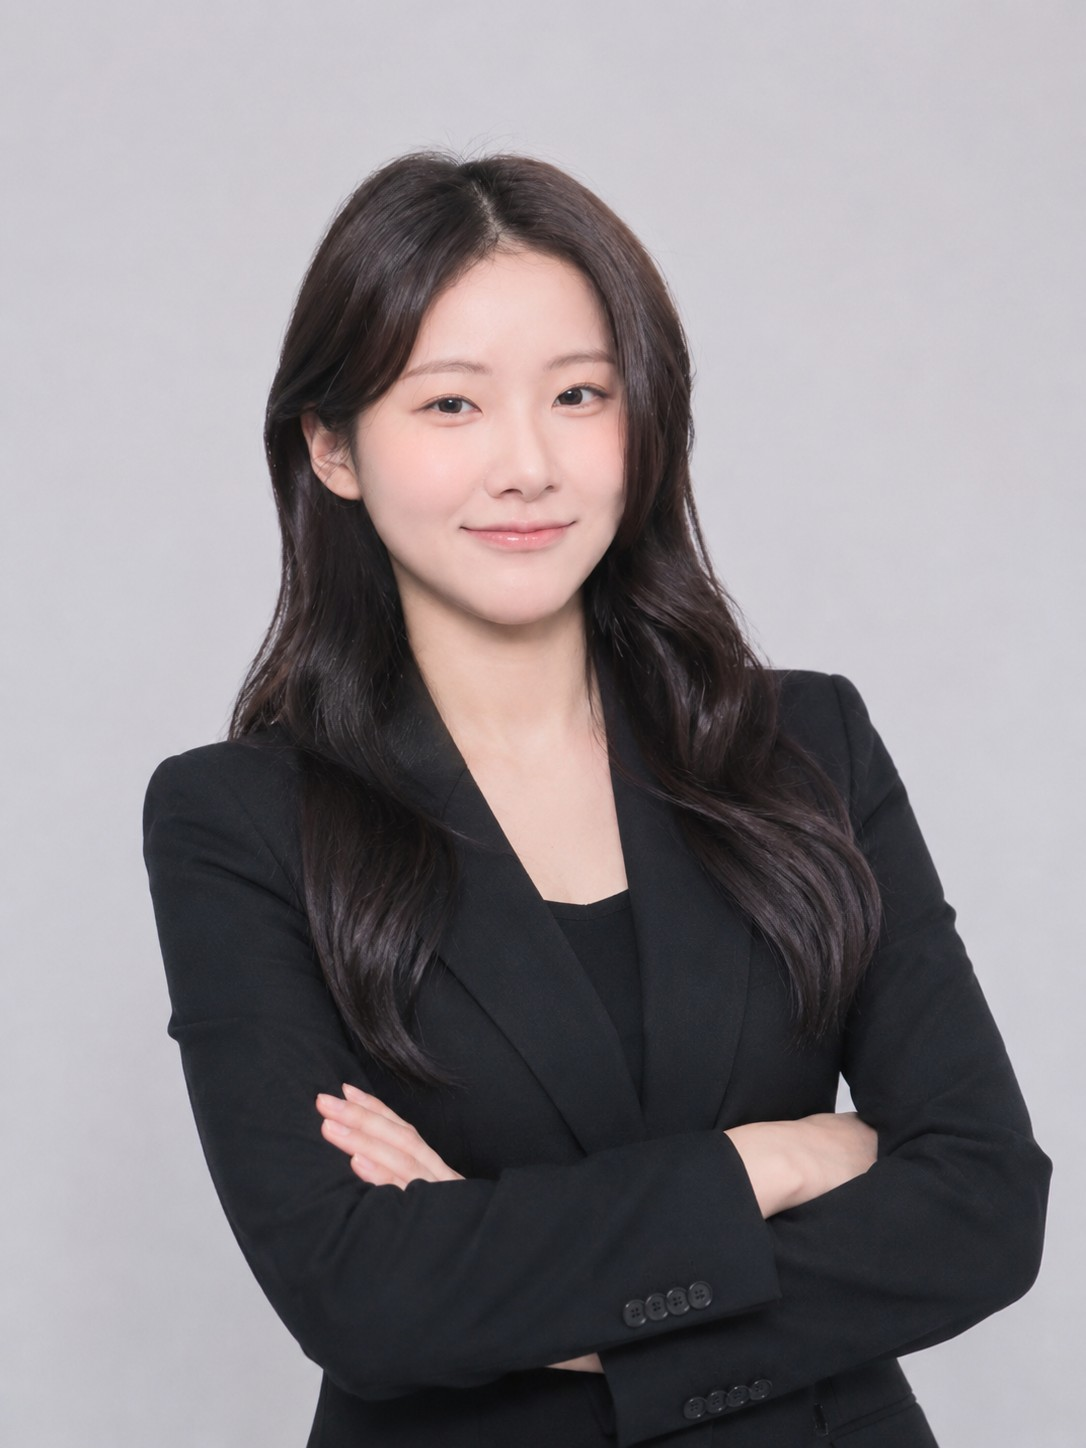
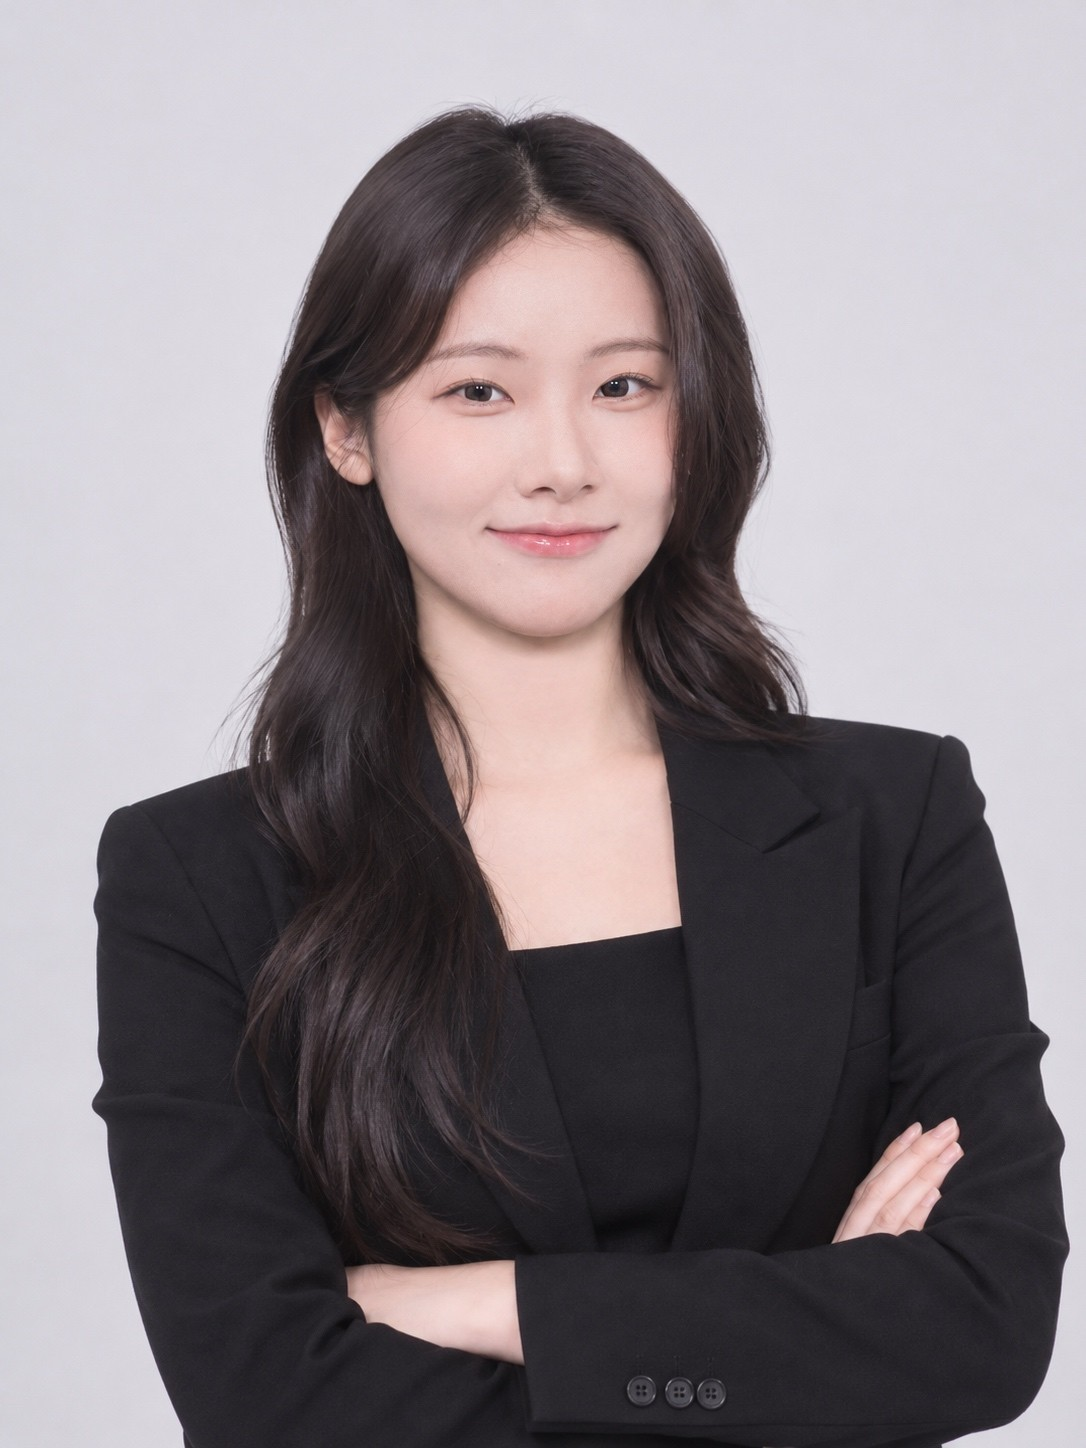
회사소개: 대표 사진 교체
Claude-Session: https://claude.ai/code/session_0186SxMVPzQwVPf5ydA6fVUR

Changed region(s): [[0.0912, 0.0622, 1.0, 1.0], [0.2431, 0.5905, 0.6989, 0.9945], [0.547, 0.808, 0.6381, 0.8702]]

diff --git a/about-stegavision.html b/about-stegavision.html
@@ -101,7 +101,7 @@
     <h2 class="sec-title md">팀구성</h2>
     <div class="team-grid">
       <div class="member">
-        <div class="photo"><img src="assets/img/team-ceo.jpg" alt="김유정 대표" width="1086" height="1448"></div>
+        <div class="photo"><img src="assets/img/team-ceo.jpg?v=2" alt="김유정 대표" width="1086" height="1448"></div>
         <div class="body">
           <h3>CEO • Director</h3>
           <p class="name">김유정</p>

diff --git a/src/pages/about-stegavision.html b/src/pages/about-stegavision.html
@@ -66,7 +66,7 @@
     <h2 class="sec-title md">팀구성</h2>
     <div class="team-grid">
       <div class="member">
-        <div class="photo"><img src="assets/img/team-ceo.jpg" alt="김유정 대표" width="1086" height="1448"></div>
+        <div class="photo"><img src="assets/img/team-ceo.jpg?v=2" alt="김유정 대표" width="1086" height="1448"></div>
         <div class="body">
           <h3>CEO • Director</h3>
           <p class="name">김유정</p>
